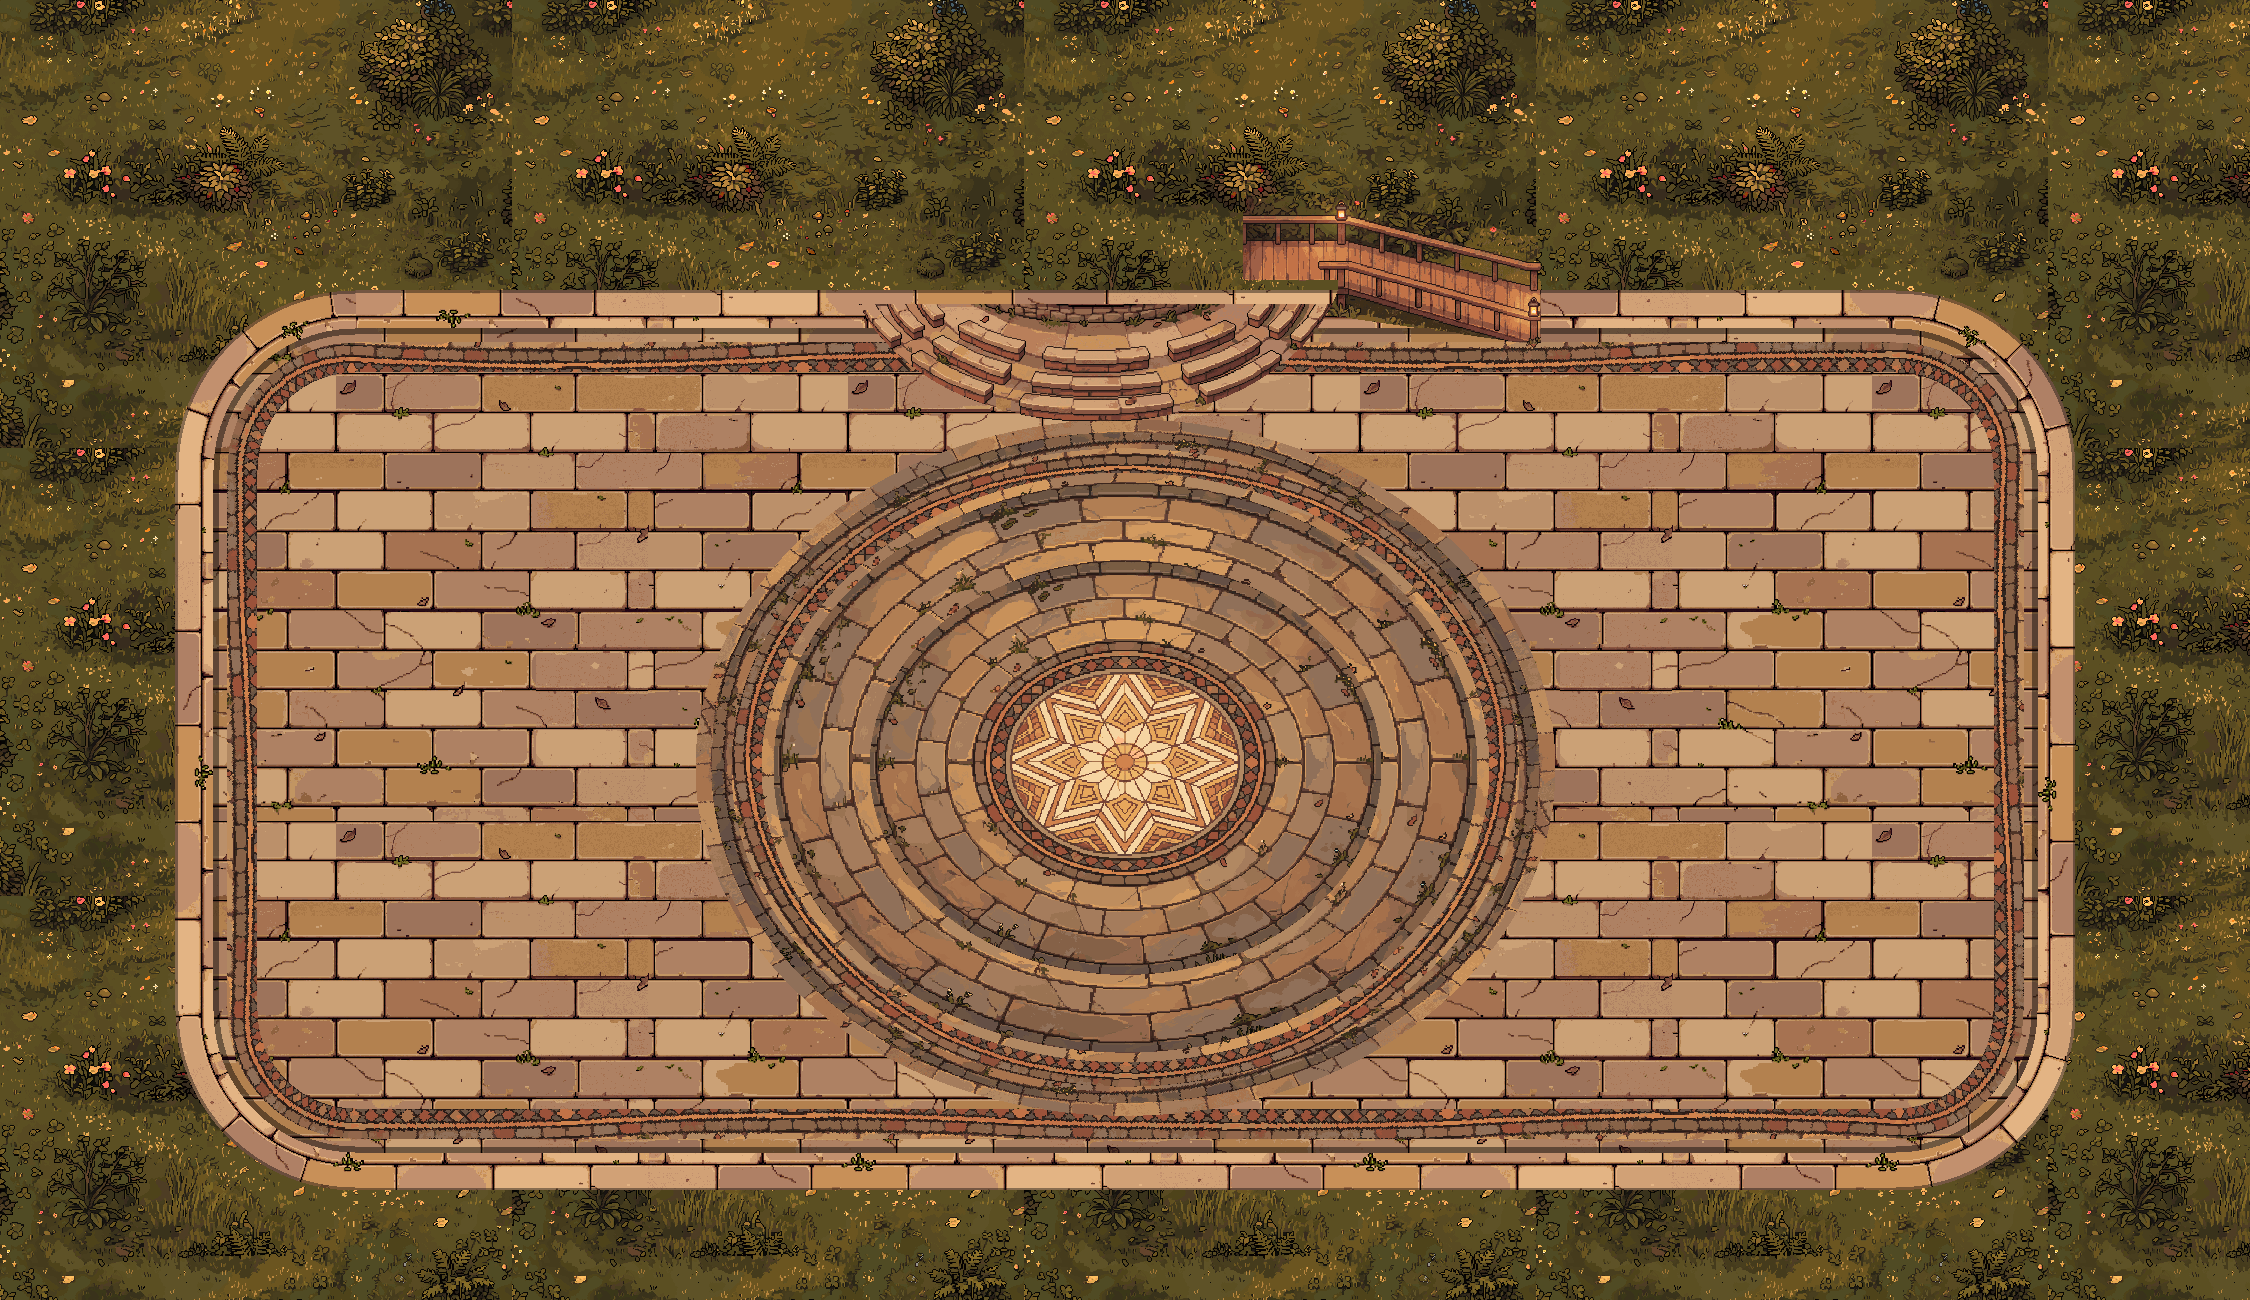
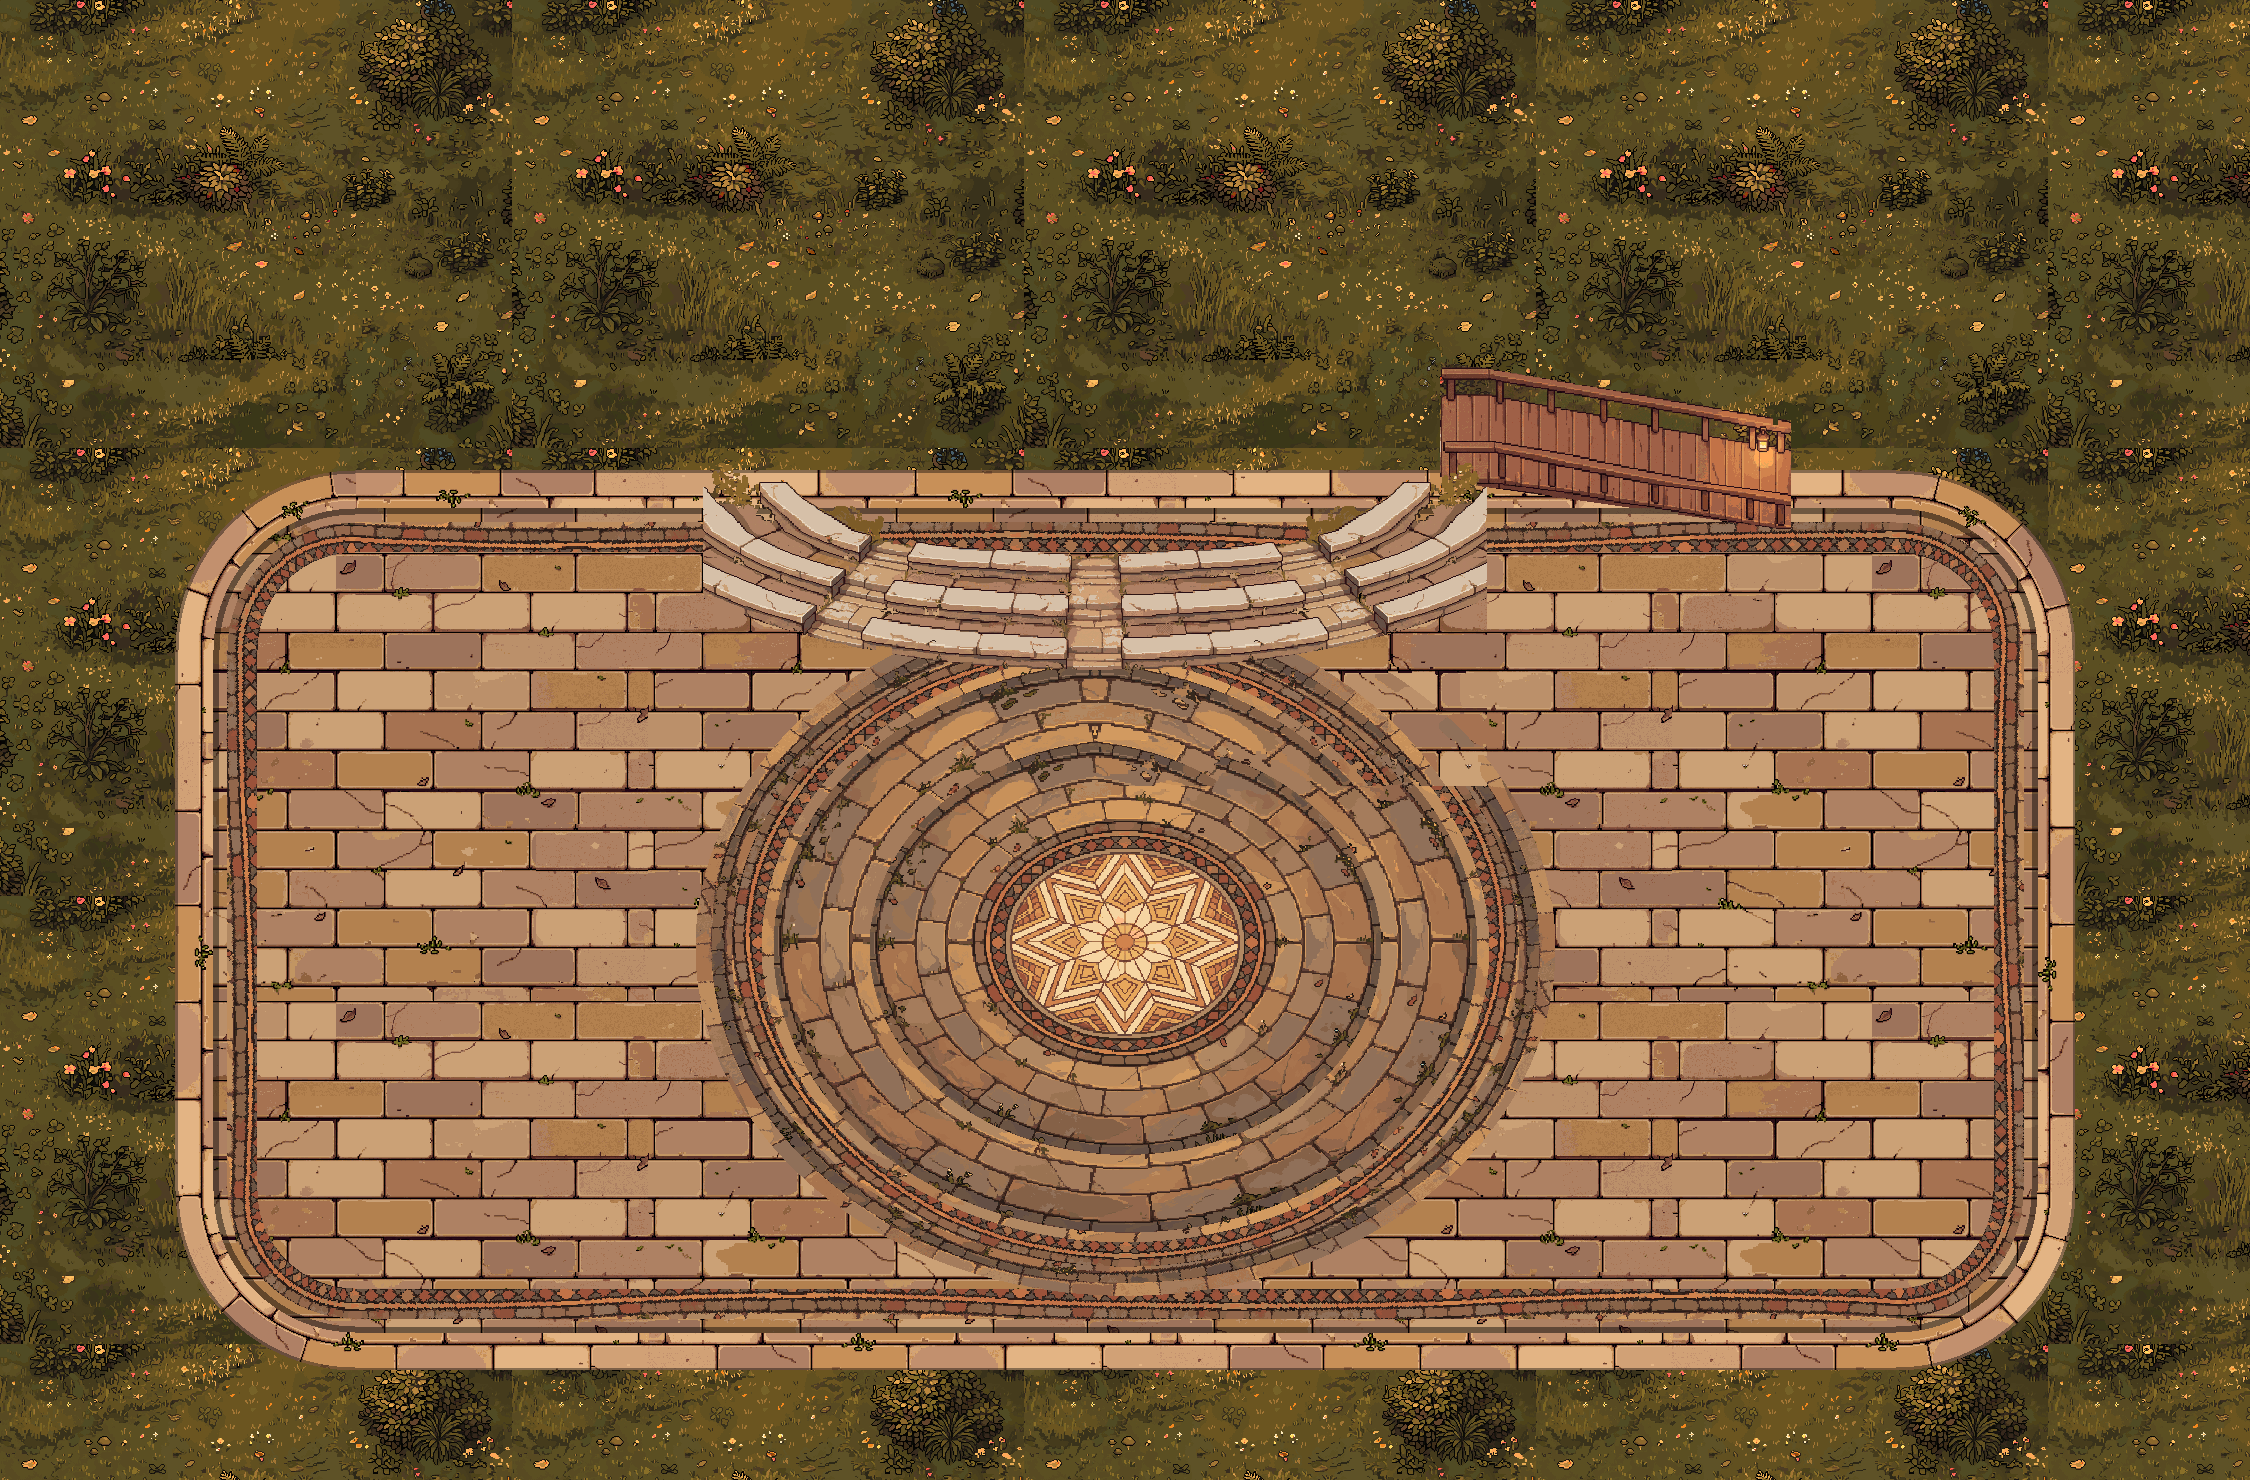
광장 시안 3: 무대 약 2.6배(넓이 760)·객석 넓이 1000·경사로 새 자리
Claude-Session: https://claude.ai/code/session_01Pvw1b89peiWr9LLckhAsvR

diff --git a/preview-plaza/index.html b/preview-plaza/index.html
@@ -28,7 +28,7 @@ html,body{margin:0;height:100%;background:#15120e;overflow:hidden;touch-action:n
 <div id="tip">광장 시안: 화면을 누르거나 방향키로 걸어 보세요 (바깥 풀밭은 임시)</div>
 <script>
 (() => {
-const W = 2250, H = 1300;
+const W = 2250, H = 1480;
 // 물건 레이어: 바닥(물건을 비우고 다시 그린 그림)과 따로 오려낸 물건. [이름, x, y, 기준선 y] — 주인공 발이 기준선보다 위면 물건이 주인공을 가림
 
 
